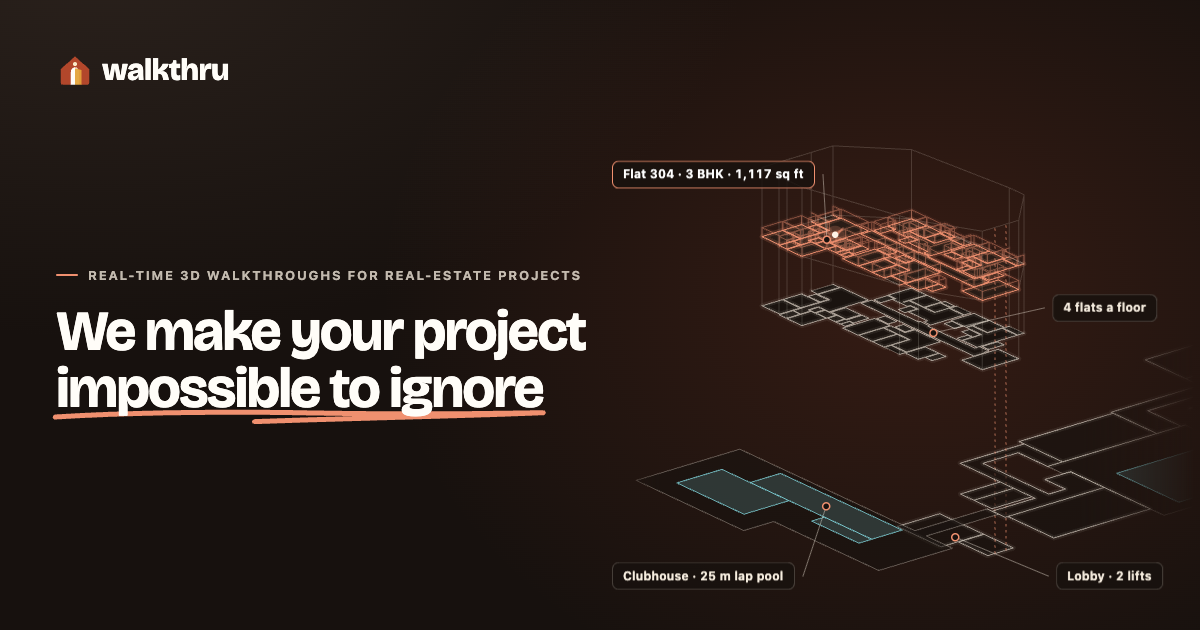
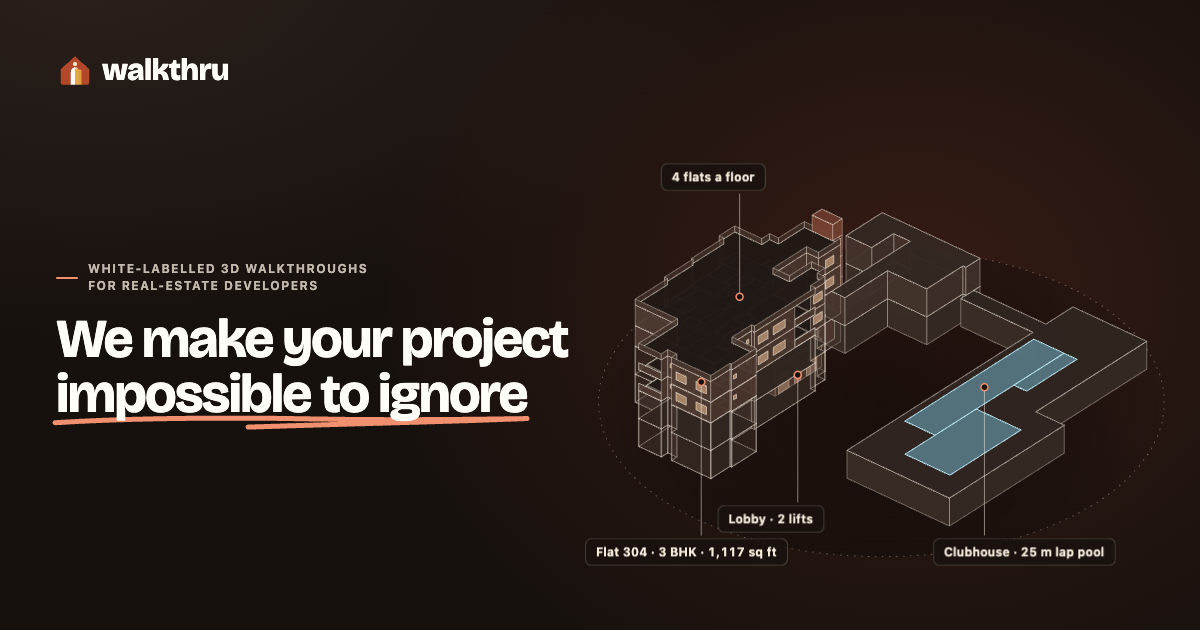
Landing: labels stand in lanes above and below the model; social image redrawn

diff --git a/src/landing/hero-canvas.ts b/src/landing/hero-canvas.ts
@@ -302,10 +302,17 @@ export function mountHeroArt(host: HTMLElement, hb: HeroBuilding, o: HeroArtOpti
     const toward = towardCamera(cam);
     const dir = { x: toward.x * Math.cos(cam.elev), y: Math.sin(cam.elev), z: toward.z * Math.cos(cam.elev) };
     const solid = (s: Storey): boolean => stageOf(s, st).alpha > 0.5 && (s.build < 0 || (st.floors[s.build]?.facade ?? 1) > 0.5);
-    const check = frames % 3 === 0;
+    const check = frames % 3 === 0 || !!held().__wlHeroCam;
     const placed: { top: number; bottom: number; left: number; right: number }[] = [];
-    const cx = w / 2, cyy = h / 2;
-    const items = hb.anchors.map((a) => ({ a, p: P(a.x, a.y, a.z) })).sort((p, q) => p.p[1] - q.p[1]);
+    // the model's own box on the screen: the labels stand in a lane above it and a lane below it, never on it
+    let top = h, bottom = 0;
+    for (const s of hb.storeys) {
+      const q = stageOf(s, st);
+      if (q.alpha < 0.3) continue;
+      for (const loop of s.loops) for (const v of loop) { const a = P(v.x, s.y0, v.z)[1], b = P(v.x, s.y1 + q.lift, v.z)[1]; if (b < top) top = b; if (a > bottom) bottom = a; }
+    }
+    const mid = (top + bottom) / 2, m = 6, gap = narrow ? 10 : 18, foot = o.hint && !o.hint.classList.contains('is-used') ? 30 : 6;
+    const items = hb.anchors.map((a) => ({ a, p: P(a.x, a.y + (st.keep < 1 && (a.id === 'flat' || a.id === 'flats') ? (1 - st.keep) * 4 : 0), a.z) })).sort((p, q) => p.p[0] - q.p[0]);
     for (const { a, p } of items) {
       const el = labelEl.get(a.id);
       if (!el) continue;
@@ -315,30 +322,23 @@ export function mountHeroArt(host: HTMLElement, hb: HeroBuilding, o: HeroArtOpti
       const inFrame = p[0] > 4 && p[0] < w - 4 && p[1] > 4 && p[1] < h - 4;
       const show = on > 0.02 && (labelSeen.get(a.id) ?? false) && inFrame;
       const lw = el.offsetWidth, lh = el.offsetHeight;
-      // out from the middle of the picture, to the side the anchor is on
-      // out to the side the anchor is on, clear of the building's own width where the frame has the room
-      const left = p[0] < cx, clear = hb.subject.radius * scale * cam.zoom * (narrow ? 0.4 : 0.6);
-      const vy = p[1] < cyy ? -1 : 1;
-      let ex = left ? Math.min(p[0] - 30, cx - clear) : Math.max(p[0] + 30, cx + clear), ey = p[1] + vy * (narrow ? 18 : 26);
-      const m = 6;
-      let x0 = left ? ex - lw : ex;
-      x0 = Math.max(m, Math.min(w - m - lw, x0));
-      let y0 = Math.max(m, Math.min(h - m - lh, ey - lh / 2));
-      // on a narrow screen the building fills the frame: the labels keep to its top and bottom edges, off the model
-      if (narrow) { x0 = left ? m : w - m - lw; y0 = vy < 0 ? m : h - m - lh - 28; }
-      for (let guard = 0; guard < 6; guard++) {
-        const hit = placed.find((q) => x0 < q.right + 6 && x0 + lw > q.left - 6 && y0 < q.bottom + 5 && y0 + lh > q.top - 5);
+      const up = p[1] < mid;
+      const x0 = Math.max(m, Math.min(w - m - lw, p[0] - lw / 2 + (p[0] < w / 2 ? -1 : 1) * Math.min(40, lw * 0.25)));
+      let y0 = up ? Math.max(m, top - gap - lh) : Math.min(h - foot - lh, bottom + gap);
+      // two labels over the same stretch of a lane: the later one steps away from the model, or towards it when the frame ends
+      for (let guard = 0; guard < 5; guard++) {
+        const hit = placed.find((q) => x0 < q.right + 8 && x0 + lw > q.left - 8 && y0 < q.bottom + 4 && y0 + lh > q.top - 4);
         if (!hit) break;
-        y0 = (narrow ? vy > 0 : vy < 0) ? hit.top - lh - 6 : hit.bottom + 6;
+        const away = up ? hit.top - lh - 5 : hit.bottom + 5;
+        y0 = away >= m && away <= h - foot - lh ? away : (up ? hit.bottom + 5 : hit.top - lh - 5);
       }
-      y0 = Math.max(m, Math.min(h - m - lh, y0));
       if (show) placed.push({ top: y0, bottom: y0 + lh, left: x0, right: x0 + lw });
-      ex = left ? x0 + lw : x0; ey = y0 + lh / 2;
       el.style.transform = `translate(${x0.toFixed(1)}px, ${y0.toFixed(1)}px)`;
       el.style.opacity = show ? on.toFixed(2) : '0';
       if (!show) continue;
+      const ex = Math.max(x0 + 10, Math.min(x0 + lw - 10, p[0])), ey = y0 > p[1] ? y0 : y0 + lh;
       g.strokeStyle = `rgba(${INK}, ${0.5 * on})`; g.lineWidth = 1;
-      g.beginPath(); g.moveTo(p[0], p[1]); g.lineTo(ex + (left ? 6 : -6), ey); g.stroke();
+      g.beginPath(); g.moveTo(p[0], p[1]); g.lineTo(ex, ey + (y0 > p[1] ? -3 : 3)); g.stroke();
       g.fillStyle = `rgba(24, 18, 15, ${on})`; g.beginPath(); g.arc(p[0], p[1], 3.5, 0, Math.PI * 2); g.fill();
       g.strokeStyle = `rgba(${ACCENT}, ${on})`; g.lineWidth = 1.5; g.beginPath(); g.arc(p[0], p[1], 3.5, 0, Math.PI * 2); g.stroke();
     }
